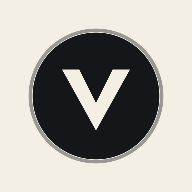
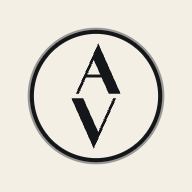
feat(brand): replace MV notch-circle with new AV monogram
Swap the brand mark across the whole site to the new pack: a thin-ring
AV monogram (Alexander Vey) in place of the old MV notch-circle (filled
ink disc with a V-shaped mask cutout).

- Update all brand/ asset files (favicons, app icons, marks, lockups).
- Replace the inline nav glyph on all three pages (theme-adaptive via
  var(--ink)) and the Modus-Karte center monogram (V kept teal to tie
  into the cartography paths).
- Make favicon.svg self-contained and dark-mode aware.
- Regenerate apple-touch-icon.svg and the og.svg/og.png social card.
- On the social card, swap the stale "80% BAFA" chip for the current
  "Sprint anrechenbar" hook.

diff --git a/index.html b/index.html
@@ -152,30 +152,12 @@
         <a href="#" class="nav-mark" aria-label="Modus Vey">
           <span class="glyph">
             <svg viewBox="0 0 24 24" aria-hidden="true">
-              <!-- MV Notch Circle — V als Aussparung -->
-              <mask id="mv-nav-gap">
-                <rect width="24" height="24" fill="white" />
-                <polygon
-                  points="6.1 7.4, 9.1 7.4, 12 13.2, 14.9 7.4, 17.9 7.4, 12 18.0"
-                  fill="black"
-                />
-              </mask>
-              <circle
-                cx="12"
-                cy="12"
-                r="11"
-                fill="var(--ink)"
-                mask="url(#mv-nav-gap)"
-              />
-              <circle
-                cx="12"
-                cy="12"
-                r="11.4"
-                fill="none"
-                stroke="var(--ink)"
-                stroke-width="0.6"
-                opacity="0.4"
-              />
+              <!-- MV-Mark — Ring + Chevrons + Mittelbalken -->
+              <circle cx="12" cy="12" r="11" fill="none" stroke="var(--ink)" stroke-width="0.7" />
+              <circle cx="12" cy="12" r="11.5" fill="none" stroke="var(--ink)" stroke-width="0.42" opacity="0.4" />
+              <path d="M8.548 11.6 L12.38 2.978 L16.212 11.6 L14.188 11.6 L11.62 5.822 L9.052 11.6 Z" fill="var(--ink)" />
+              <path d="M7.788 12.4 L11.62 21.022 L15.452 12.4 L14.948 12.4 L12.38 18.178 L9.812 12.4 Z" fill="var(--ink)" />
+              <path d="M10.144 8.326 L13.856 8.326 L13.856 8.826 L10.144 8.826 Z" fill="var(--ink)" />
             </svg>
           </span>
           Modus<span class="dot"></span>Vey
@@ -394,7 +376,7 @@
                 LIEFERN
               </text>
 
-              <!-- Zentrum (Modus) mit MV-Monogramm -->
+              <!-- Zentrum (Modus) mit AV-Mark -->
               <circle
                 cx="270"
                 cy="270"
@@ -412,19 +394,21 @@
                 stroke-width="0.5"
                 stroke-dasharray="2 2"
               />
-              <!-- MV-Monogramm: M (ink) + V (teal) -->
-              <g fill="none" stroke-linecap="round" stroke-linejoin="round">
+              <!-- MV-Mark: Chevrons + Mittelbalken (V in Teal, wie die Pfade) -->
+              <svg x="255" y="255" width="30" height="30" viewBox="0 0 24 24">
                 <path
-                  d="M261 277 V263 M279 277 V263"
-                  stroke="var(--ink)"
-                  stroke-width="2.2"
+                  d="M8.548 11.6 L12.38 2.978 L16.212 11.6 L14.188 11.6 L11.62 5.822 L9.052 11.6 Z"
+                  fill="var(--ink)"
                 />
                 <path
-                  d="M261 263 L270 274 L279 263"
-                  stroke="var(--teal)"
-                  stroke-width="2.2"
+                  d="M7.788 12.4 L11.62 21.022 L15.452 12.4 L14.948 12.4 L12.38 18.178 L9.812 12.4 Z"
+                  fill="var(--teal)"
                 />
-              </g>
+                <path
+                  d="M10.144 8.326 L13.856 8.326 L13.856 8.826 L10.144 8.826 Z"
+                  fill="var(--ink)"
+                />
+              </svg>
               <text
                 x="270"
                 y="300"
@@ -1282,7 +1266,7 @@
                 <img
                   class="mark-light"
                   src="brand/mark.svg"
-                  alt="Modus Vey · Notch-Circle-Mark"
+                  alt="Modus Vey · AV-Monogramm"
                   width="512"
                   height="512"
                   loading="lazy"
